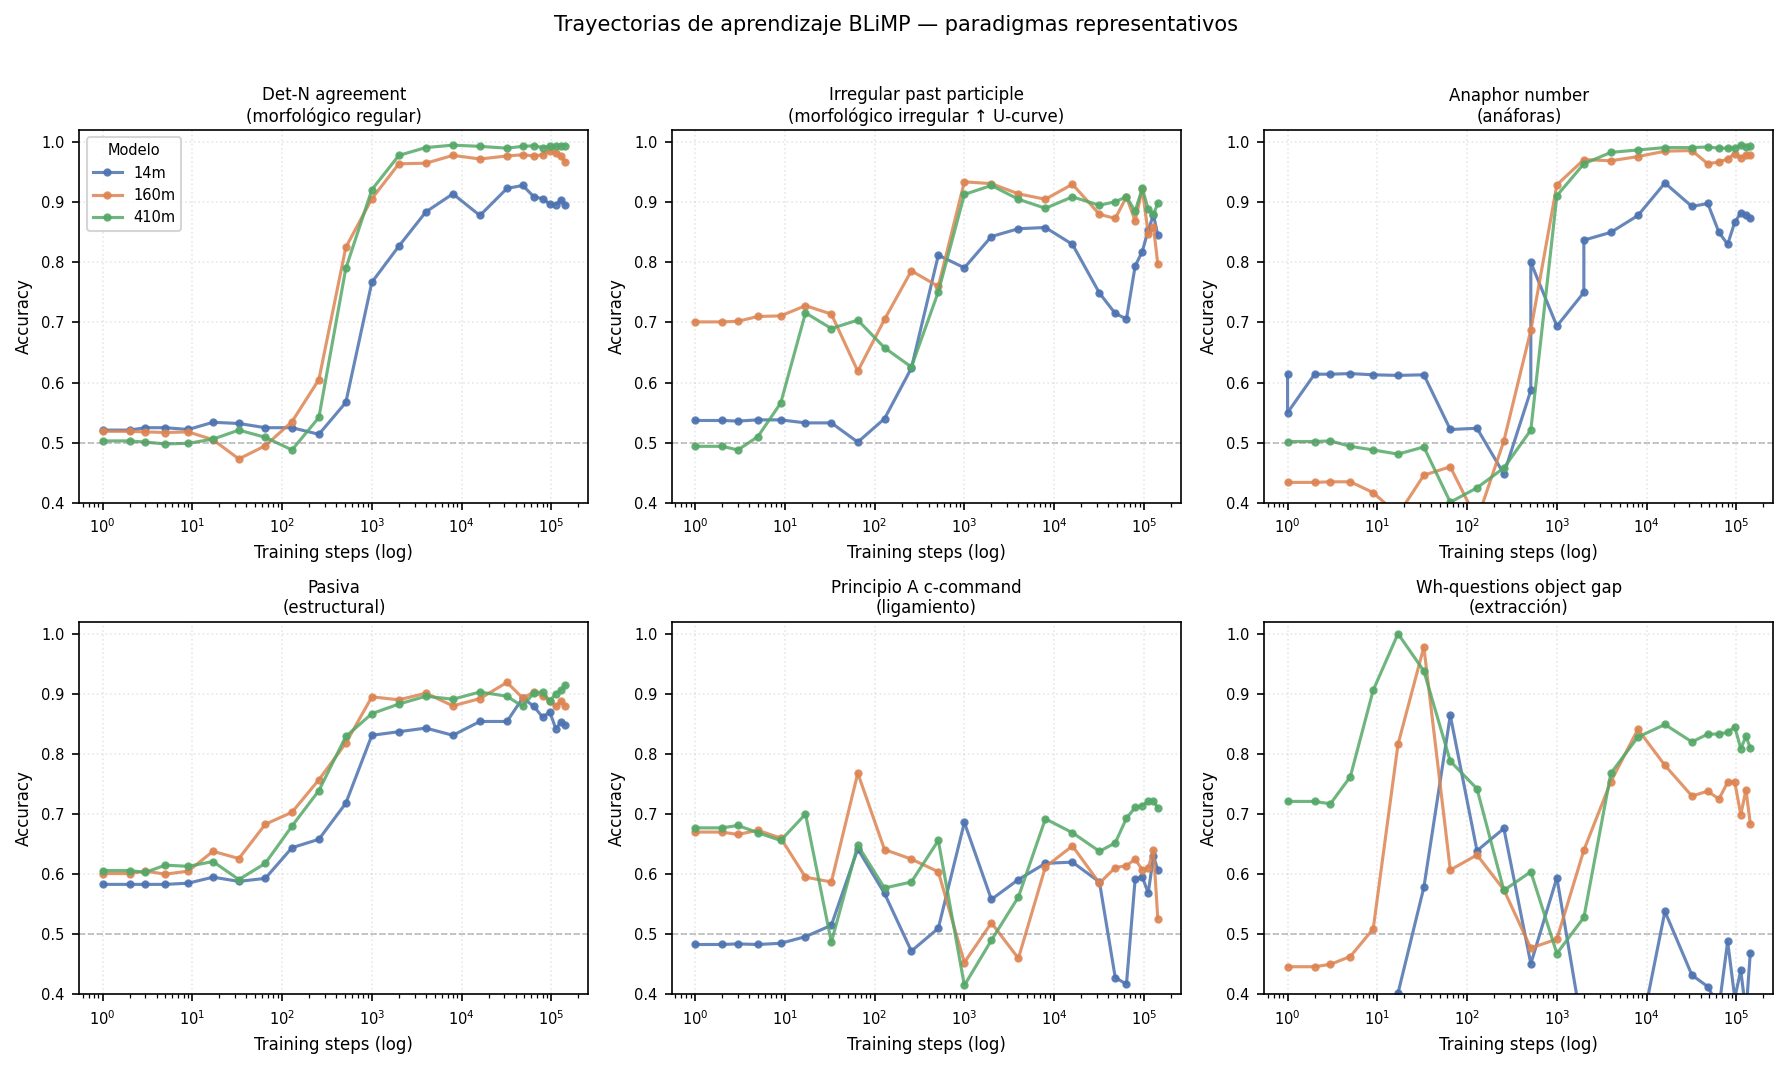
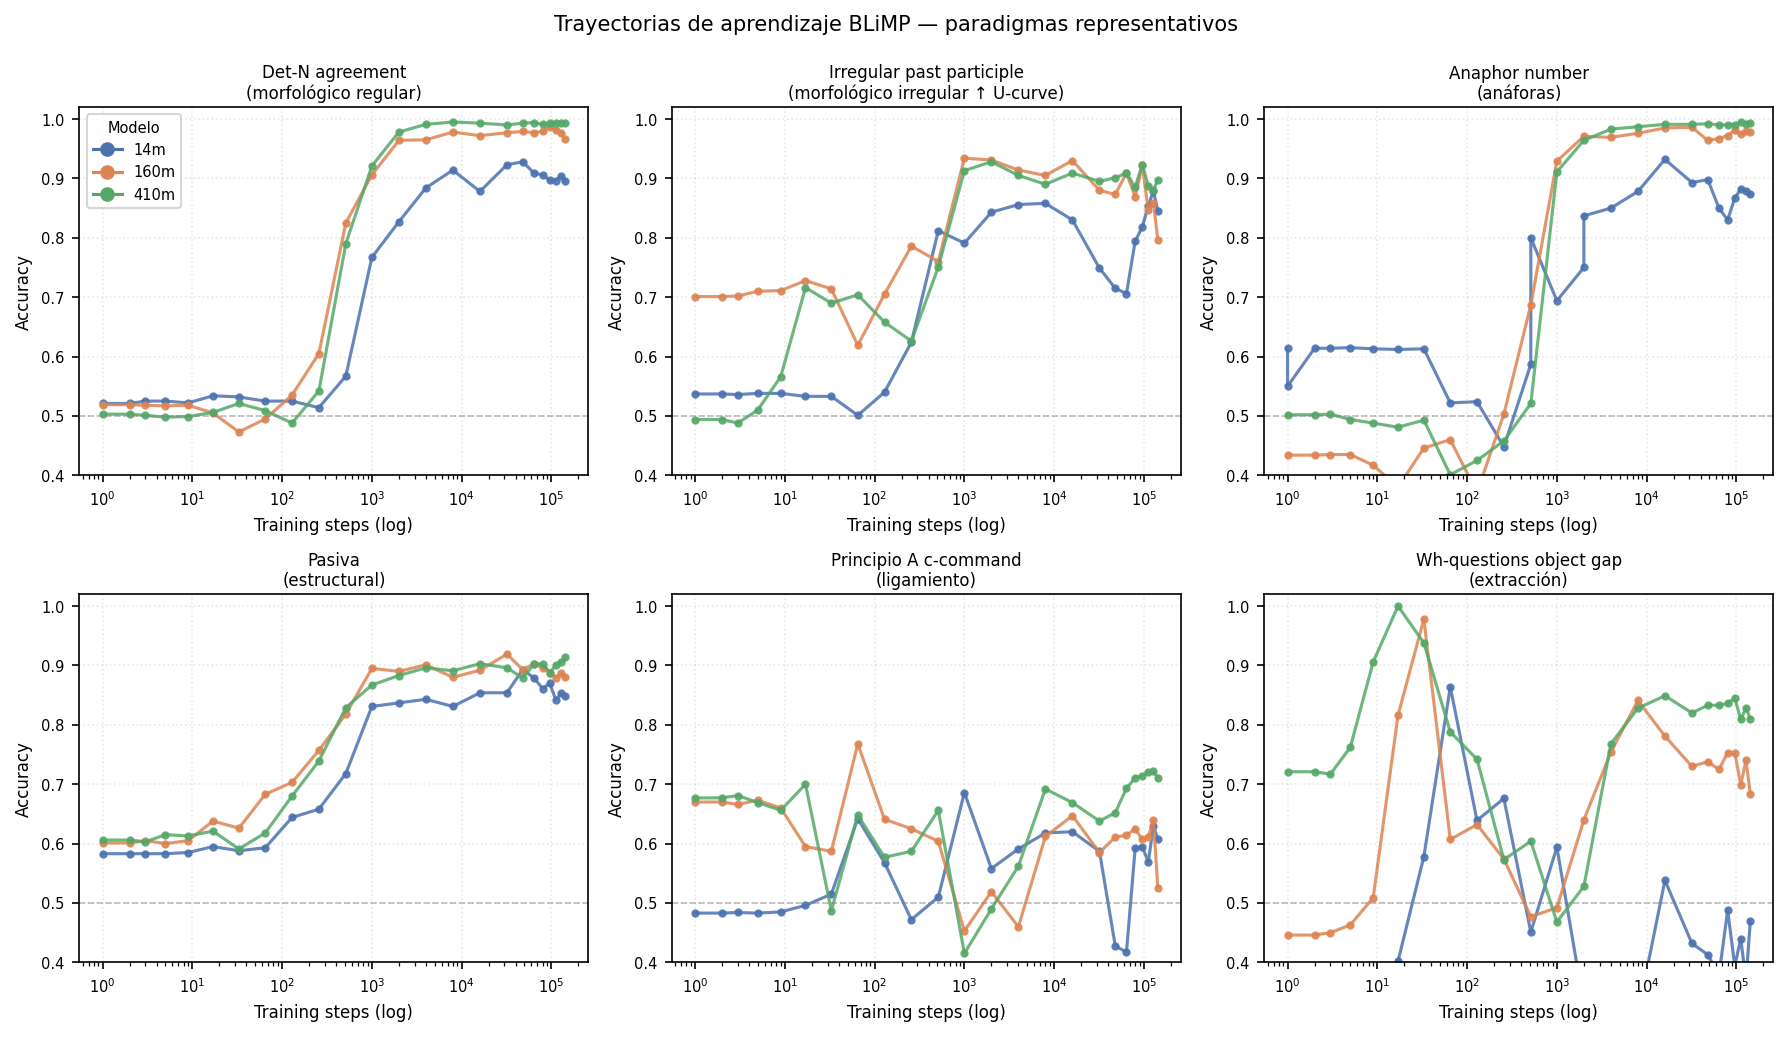
fix: tight_layout rect + legend from MODEL_COLORS en Fig 1

diff --git a/scripts/make_figures.py b/scripts/make_figures.py
@@ -102,12 +102,15 @@ def plot_trajectories(metrics: pd.DataFrame) -> None:
         ax.tick_params(labelsize=7)
         ax.grid(True, alpha=0.3, linestyle=":")
 
-    axes[0].legend(title="Modelo", fontsize=7, title_fontsize=7)
+    from matplotlib.lines import Line2D
+    handles = [Line2D([0], [0], color=c, marker="o", label=sz)
+               for sz, c in MODEL_COLORS.items()]
+    axes[0].legend(handles=handles, title="Modelo", fontsize=7, title_fontsize=7)
+    fig.tight_layout(rect=[0, 0, 1, 0.95])
     fig.suptitle(
         "Trayectorias de aprendizaje BLiMP — paradigmas representativos",
-        fontsize=10, y=1.01
+        fontsize=10,
     )
-    fig.tight_layout()
     out_png = FIGURES / "fig1_trajectories.png"
     out_pdf = FIGURES / "fig1_trajectories.pdf"
     fig.savefig(out_png, dpi=150, bbox_inches="tight")
